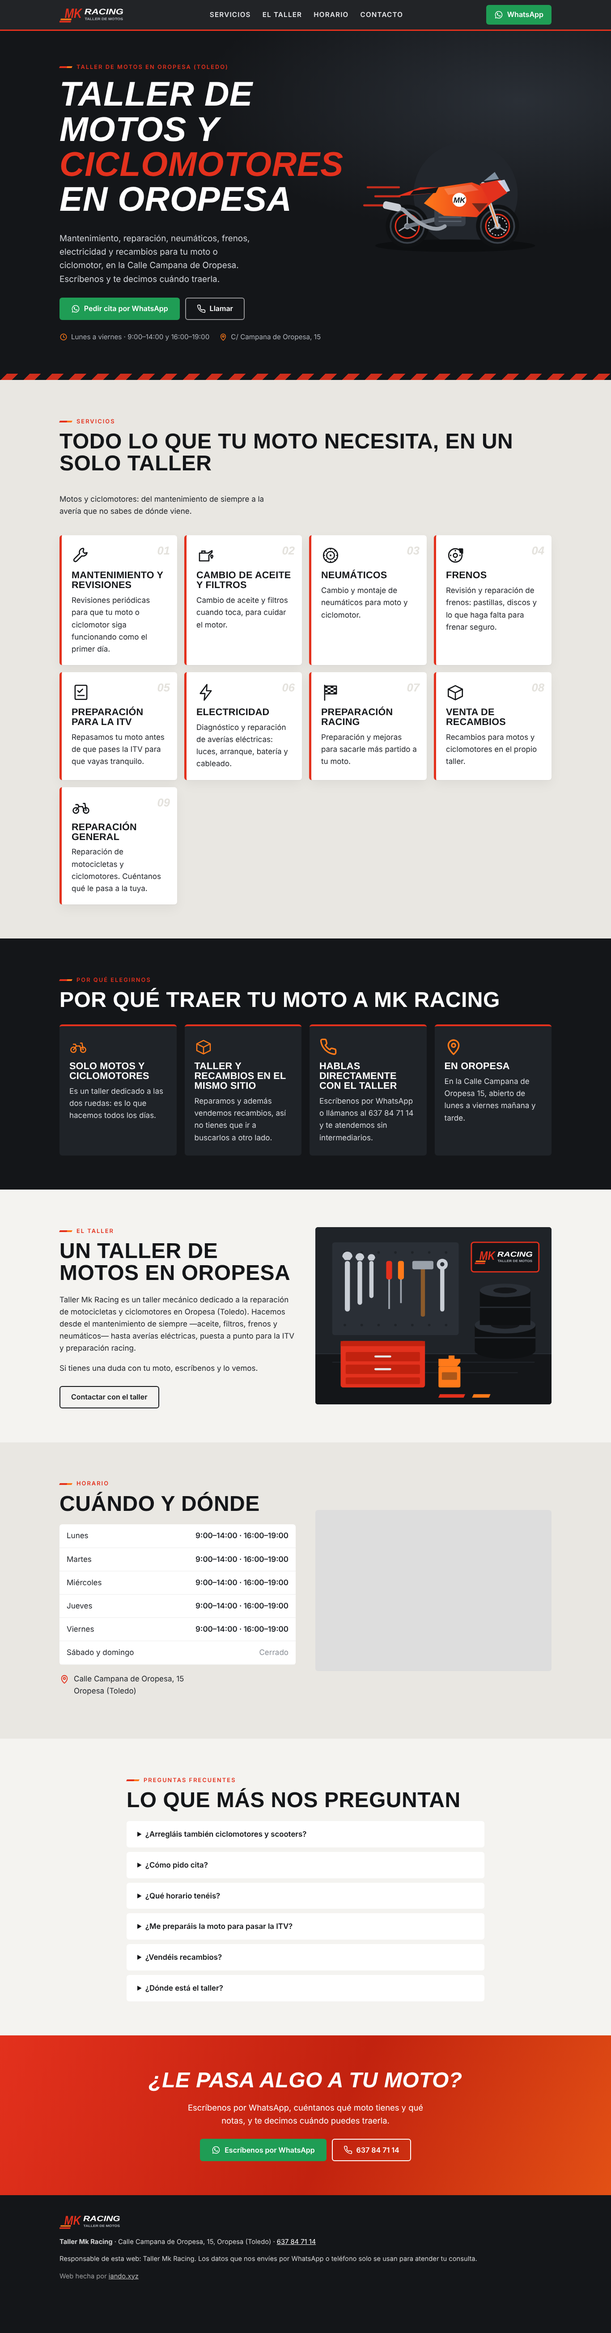
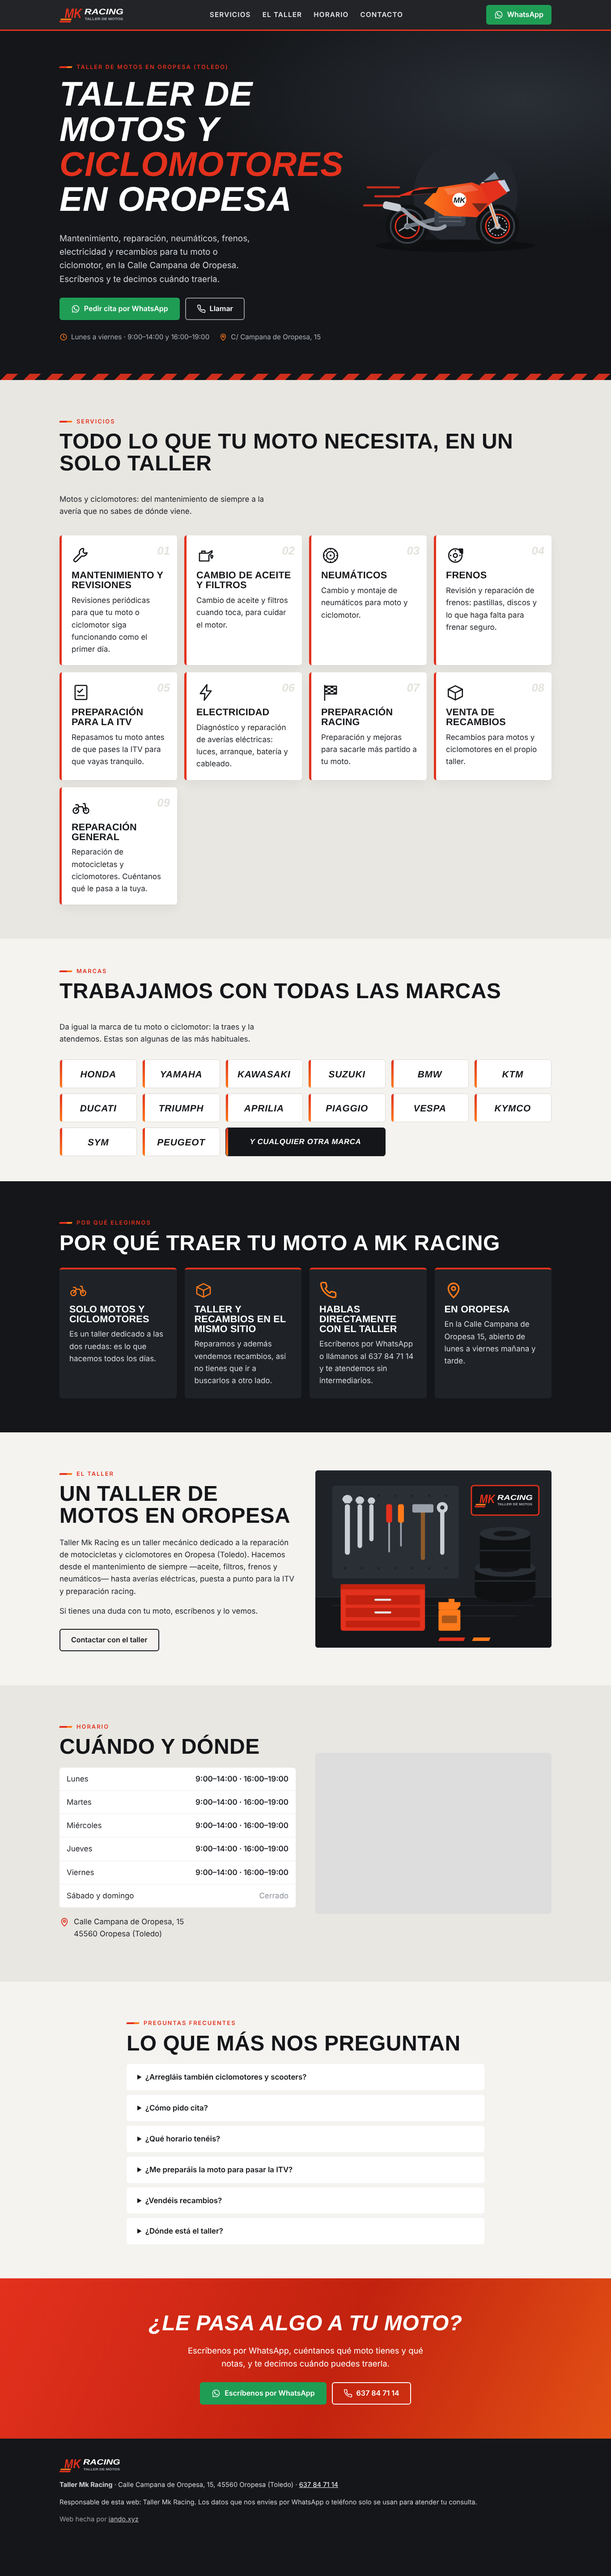
Taller Mk Racing: código postal 45560 y sección de marcas

diff --git a/demos/taller-mk-racing/index.html b/demos/taller-mk-racing/index.html
@@ -21,7 +21,7 @@
   "name": "Taller Mk Racing",
   "description": "Taller de motos y ciclomotores en Oropesa (Toledo): mantenimiento, aceite, neumáticos, frenos, electricidad, puesta a punto para la ITV, preparación racing y venta de recambios.",
   "telephone": "+34637847114",
-  "address": { "@type": "PostalAddress", "streetAddress": "Calle Campana de Oropesa, 15", "addressLocality": "Oropesa", "addressRegion": "Toledo", "addressCountry": "ES" },
+  "address": { "@type": "PostalAddress", "streetAddress": "Calle Campana de Oropesa, 15", "postalCode": "45560", "addressLocality": "Oropesa", "addressRegion": "Toledo", "addressCountry": "ES" },
   "areaServed": "Oropesa (Toledo) y alrededores",
   "openingHoursSpecification": [
     { "@type": "OpeningHoursSpecification", "dayOfWeek": ["Monday","Tuesday","Wednesday","Thursday","Friday"], "opens": "09:00", "closes": "14:00" },
@@ -36,7 +36,7 @@
   { "@type": "Question", "name": "¿Qué horario tenéis?", "acceptedAnswer": { "@type": "Answer", "text": "De lunes a viernes, de 9:00 a 14:00 y de 16:00 a 19:00. Sábados y domingos cerrado." } },
   { "@type": "Question", "name": "¿Me preparáis la moto para pasar la ITV?", "acceptedAnswer": { "@type": "Answer", "text": "Sí, la repasamos antes para que llegues a la ITV con todo en orden. La inspección se pasa en la estación de ITV." } },
   { "@type": "Question", "name": "¿Vendéis recambios?", "acceptedAnswer": { "@type": "Answer", "text": "Sí, tenemos venta de recambios para motos y ciclomotores. Pregúntanos por WhatsApp por la pieza que buscas." } },
-  { "@type": "Question", "name": "¿Dónde está el taller?", "acceptedAnswer": { "@type": "Answer", "text": "En la Calle Campana de Oropesa 15, en Oropesa (Toledo)." } }
+  { "@type": "Question", "name": "¿Dónde está el taller?", "acceptedAnswer": { "@type": "Answer", "text": "En la Calle Campana de Oropesa 15, 45560 Oropesa (Toledo)." } }
 ] }
 </script>
 <style>
@@ -149,6 +149,12 @@
   .cta-final .acciones { justify-content: center; }
   .cta-final .btn-2 { border-color: #fff; }
 
+  .marcas { padding: 56px 0; background: var(--c-fondo); }
+  .marcas .cabecera-sec { margin-bottom: 22px; }
+  .lista-marcas { list-style: none; margin: 0; padding: 0; display: grid; grid-template-columns: repeat(auto-fill, minmax(150px, 1fr)); gap: 12px; }
+  .lista-marcas li { position: relative; display: flex; align-items: center; justify-content: center; min-height: 64px; padding: 10px 14px; background: #fff; border: 1px solid #dcd9d2; border-radius: var(--radio); font-family: var(--f-titulos); font-weight: 700; font-style: italic; font-size: 1.3rem; text-transform: uppercase; letter-spacing: .04em; color: var(--c-oscuro); overflow: hidden; }
+  .lista-marcas li::before { content: ""; position: absolute; left: 0; top: 0; bottom: 0; width: 5px; background: linear-gradient(180deg, var(--c-primario), var(--c-primario-2)); }
+  .lista-marcas li.mas { background: var(--c-oscuro); color: #fff; border-color: var(--c-oscuro); font-size: 1.05rem; grid-column: span 2; }
   footer { background: var(--c-oscuro); color: rgba(255,255,255,.8); padding: 40px 0 100px; font-size: .92rem; }
   footer a { color: #fff; }
   footer .logo-pie svg { height: 38px; width: auto; margin-bottom: 14px; }
@@ -277,6 +283,16 @@
     </div>
   </section>
 
+  <section id="marcas" class="marcas">
+    <div class="contenedor">
+      <div class="cabecera-sec">
+        <div><span class="eyebrow">Marcas</span><h2>Trabajamos con todas las marcas</h2></div>
+        <p>Da igual la marca de tu moto o ciclomotor: la traes y la atendemos. Estas son algunas de las más habituales.</p>
+      </div>
+      <ul class="lista-marcas" aria-label="Algunas de las marcas con las que trabajamos"><li>Honda</li><li>Yamaha</li><li>Kawasaki</li><li>Suzuki</li><li>BMW</li><li>KTM</li><li>Ducati</li><li>Triumph</li><li>Aprilia</li><li>Piaggio</li><li>Vespa</li><li>Kymco</li><li>SYM</li><li>Peugeot</li><li class="mas">Y cualquier otra marca</li></ul>
+    </div>
+  </section>
+
   <section class="oscura">
     <div class="contenedor">
       <span class="eyebrow">Por qué elegirnos</span>
@@ -356,9 +372,9 @@
           <tr><td>Viernes</td><td>9:00–14:00 · 16:00–19:00</td></tr>
           <tr class="cerrado"><td>Sábado y domingo</td><td>Cerrado</td></tr>
         </tbody></table>
-        <p class="direccion"><svg aria-hidden="true"><use href="#i-pin"/></svg><span>Calle Campana de Oropesa, 15<br>Oropesa (Toledo)</span></p>
+        <p class="direccion"><svg aria-hidden="true"><use href="#i-pin"/></svg><span>Calle Campana de Oropesa, 15<br>45560 Oropesa (Toledo)</span></p>
       </div>
-      <iframe class="mapa" title="Mapa de Taller Mk Racing" loading="lazy" referrerpolicy="no-referrer-when-downgrade" src="https://www.google.com/maps?q=Calle%20Campana%20de%20Oropesa%2015%2C%20Oropesa%2C%20Toledo&output=embed"></iframe>
+      <iframe class="mapa" title="Mapa de Taller Mk Racing" loading="lazy" referrerpolicy="no-referrer-when-downgrade" src="https://www.google.com/maps?q=Calle%20Campana%20de%20Oropesa%2015%2C%2045560%20Oropesa%2C%20Toledo&output=embed"></iframe>
     </div>
   </section>
 
@@ -370,7 +386,7 @@
       <details><summary>¿Qué horario tenéis?</summary><p>De lunes a viernes, de 9:00 a 14:00 y de 16:00 a 19:00. Sábados y domingos cerrado.</p></details>
       <details><summary>¿Me preparáis la moto para pasar la ITV?</summary><p>Sí, la repasamos antes para que llegues a la ITV con todo en orden. La inspección se pasa en la estación de ITV.</p></details>
       <details><summary>¿Vendéis recambios?</summary><p>Sí, tenemos venta de recambios para motos y ciclomotores. Pregúntanos por WhatsApp por la pieza que buscas.</p></details>
-      <details><summary>¿Dónde está el taller?</summary><p>En la Calle Campana de Oropesa 15, en Oropesa (Toledo).</p></details>
+      <details><summary>¿Dónde está el taller?</summary><p>En la Calle Campana de Oropesa 15, 45560 Oropesa (Toledo).</p></details>
     </div>
   </section>
 
@@ -389,7 +405,7 @@
 <footer>
   <div class="contenedor">
     <div class="logo-pie"><svg viewBox="0 0 210 56" role="img" aria-label="Logo de Taller Mk Racing"><use href="#logo"/></svg></div>
-    <p><strong>Taller Mk Racing</strong> · Calle Campana de Oropesa, 15, Oropesa (Toledo) · <a href="tel:+34637847114">637 84 71 14</a></p>
+    <p><strong>Taller Mk Racing</strong> · Calle Campana de Oropesa, 15, 45560 Oropesa (Toledo) · <a href="tel:+34637847114">637 84 71 14</a></p>
     <p>Responsable de esta web: Taller Mk Racing. Los datos que nos envíes por WhatsApp o teléfono solo se usan para atender tu consulta.</p>
     <p style="opacity:.7">Web hecha por <a href="https://iando.xyz/servicios.html" rel="noopener">iando.xyz</a></p>
   </div>
